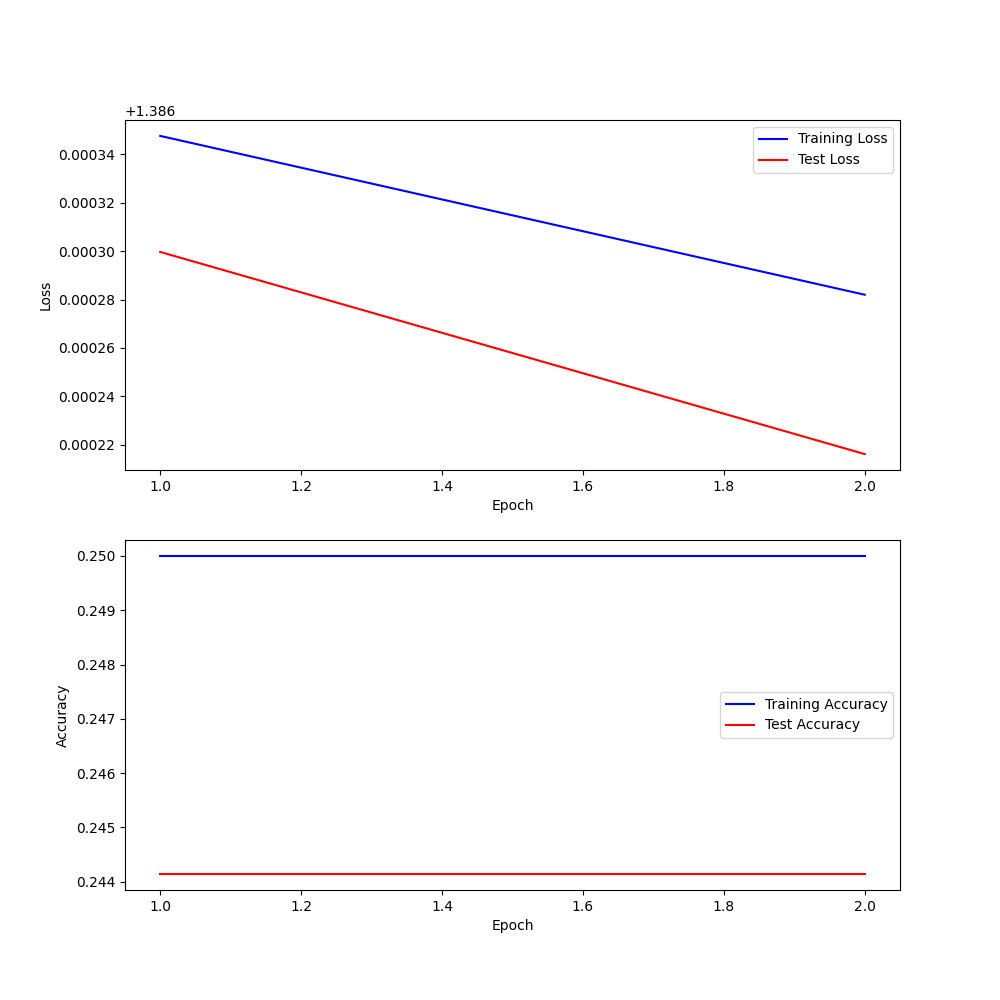
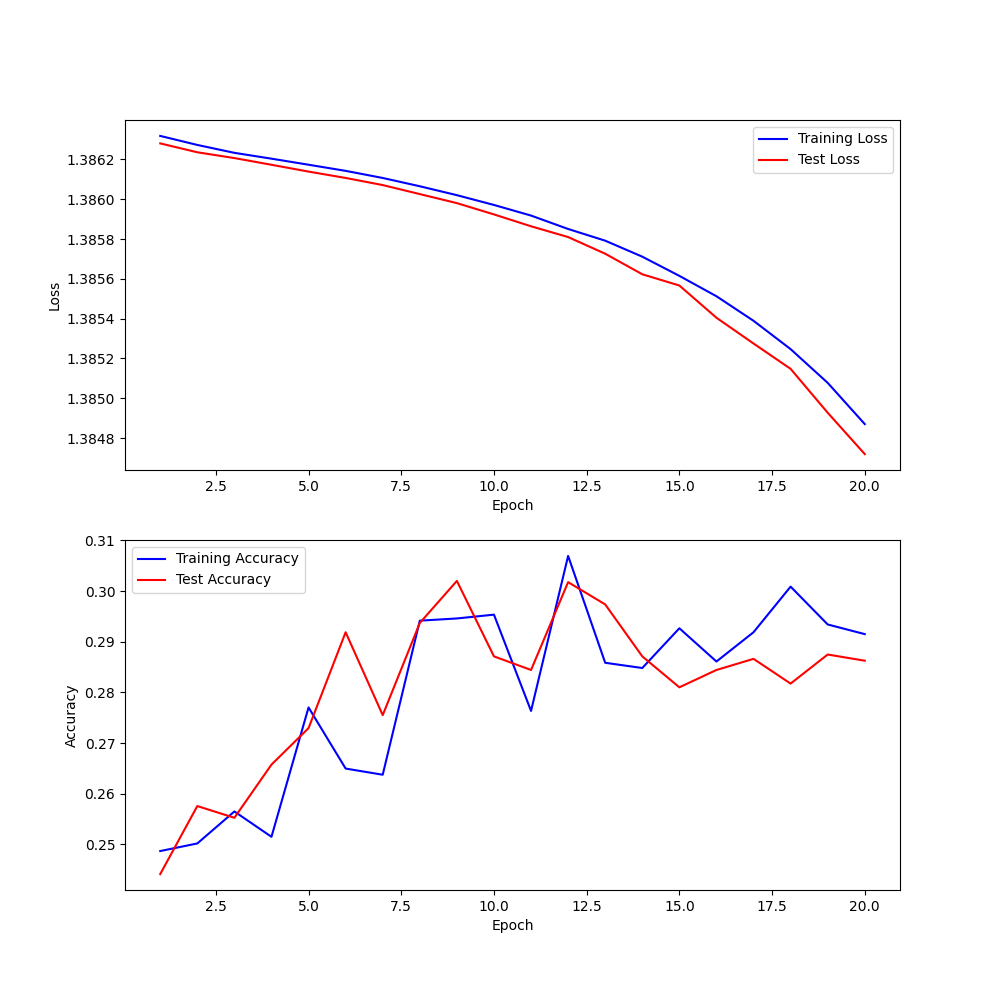
gm - detect face

diff --git a/AlexNet/AlexNetScratch.py b/AlexNet/AlexNetScratch.py
@@ -23,17 +23,22 @@ if not torch.backends.mps.is_available():
         print("MPS not available because the current MacOS version is not 12.3+ "
               "and/or you do not have an MPS-enabled device on this machine.")
             
-#TODO: double-check with paper about transforms
-transform = transforms.Compose([
+train_transform = transforms.Compose([
+    transforms.Resize(256),
+    transforms.RandomHorizontalFlip(p = .5),
+    transforms.FiveCrop(224),
+    transforms.Lambda(lambda crops: torch.stack([transforms.ToTensor()(crop) for crop in crops])),
+])
+
+test_transform = transforms.Compose([
     transforms.Resize(256),
     transforms.CenterCrop(224),
     transforms.ToTensor(),
 ])
 
 # Load dataset and perform transformations
-train_dataset = datasets.ImageFolder('./dataset/train', transform = transform)
-test_dataset = datasets.ImageFolder('./dataset/test', transform = transform)
-
+train_dataset = datasets.ImageFolder('../dataset/train', transform = train_transform)
+test_dataset = datasets.ImageFolder('../dataset/test', transform = test_transform)
 
 # Dataloader iteratble returns batches of images and corresponding labels
 batchSize = 256
@@ -42,8 +47,6 @@ testloader = torch.utils.data.DataLoader(test_dataset, batch_size=batchSize, shu
 
 train_dataset_size = len(trainloader)
 test_dataset_size = len(testloader)
-
-#TODO: Data augementation steps goes here
 
 mps_device = torch.device('mps')
 
@@ -63,7 +66,7 @@ optimizer = optim.SGD(AlexNet_model.parameters(), lr=0.001, momentum=0.9)
 # learning rate decreases step-wise by a factor of .1 ~every 10K iterations
 exp_lr_scheduler = lr_scheduler.StepLR(optimizer, step_size=3, gamma=0.1)
 
-nepochs = 2 #TODO: run for 20 epochs
+nepochs = 1 #TODO: run for 20 epochs
 
 epochs = list(range(1, nepochs+1))
 train_loss_trend, train_acc_trend, test_loss_trend, test_acc_trend = [], [], [], []
@@ -76,6 +79,9 @@ for epoch in range(nepochs):
     for i, data in enumerate(trainloader, 0):
         # load input and labels into gpu
         inputs, labels = data[0], data[1]
+        bs, ncrops, c, h, w = inputs.size()
+        inputs = inputs.view(-1, c, h, w) # fuse batch size and ncrops
+
         inputs = inputs.to(mps_device)
         labels = labels.to(mps_device)
 
@@ -84,11 +90,13 @@ for epoch in range(nepochs):
 
         # make predictions & calc accuracy
         outputs = AlexNet_model(inputs)
-        _, preds = torch.max(outputs, 1)
-        running_accuracy += float(torch.sum(preds == labels)) / batchSize # % accuracy for current batch
+        outputs_avg = outputs.view(bs, ncrops, -1).mean(1) # avg over crops
+
+        _, preds = torch.max(outputs_avg, 1)
+        running_accuracy += float(torch.sum(preds == labels)) / batchSize 
 
         # forward + backward + optimize
-        loss = criterion(outputs, labels)
+        loss = criterion(outputs_avg, labels)
         loss.backward()
         optimizer.step()
 
@@ -141,7 +149,7 @@ ax[1].plot(epochs,test_acc_trend,color='r',label='Test Accuracy')
 ax[1].set(xlabel='Epoch', ylabel = 'Accuracy')
 ax[1].legend()
 
-plt.savefig('../graphs/AlexNet_Scratch.png')
-torch.save(AlexNet_model, '../models/AlexNet_Scratch')
+plt.savefig('../graphs/AlexNet_Scratch_dataAugment.png')
+torch.save(AlexNet_model, '../models/AlexNet_Scratch_dataAugment')
 
 print('Accuracy Score = ', np.max(test_acc_trend))

diff --git a/AlexNet/AlexNetTL.py b/AlexNet/AlexNetTL.py
@@ -23,17 +23,22 @@ if not torch.backends.mps.is_available():
         print("MPS not available because the current MacOS version is not 12.3+ "
               "and/or you do not have an MPS-enabled device on this machine.")
             
-#TODO: double-check with paper about transforms
-transform = transforms.Compose([
+train_transform = transforms.Compose([
+    transforms.Resize(256),
+    transforms.RandomHorizontalFlip(p = .5),
+    transforms.FiveCrop(224),
+    transforms.Lambda(lambda crops: torch.stack([transforms.ToTensor()(crop) for crop in crops])),
+])
+
+test_transform = transforms.Compose([
     transforms.Resize(256),
     transforms.CenterCrop(224),
     transforms.ToTensor(),
 ])
 
 # Load dataset and perform transformations
-train_dataset = datasets.ImageFolder('./dataset/train', transform = transform)
-test_dataset = datasets.ImageFolder('./dataset/test', transform = transform)
-
+train_dataset = datasets.ImageFolder('../dataset/train', transform = train_transform)
+test_dataset = datasets.ImageFolder('../dataset/test', transform = test_transform)
 
 # Dataloader iteratble returns batches of images and corresponding labels
 batchSize = 256
@@ -42,8 +47,6 @@ testloader = torch.utils.data.DataLoader(test_dataset, batch_size=batchSize, shu
 
 train_dataset_size = len(trainloader)
 test_dataset_size = len(testloader)
-
-#TODO: Data augementation steps goes here
 
 mps_device = torch.device('mps')
 
@@ -63,17 +66,12 @@ optimizer = optim.SGD(AlexNet_model.parameters(), lr=0.001, momentum=0.9)
 # learning rate decreases step-wise by a factor of .1 ~every 10K iterations
 exp_lr_scheduler = lr_scheduler.StepLR(optimizer, step_size=3, gamma=0.1)
 
-nepochs = 2 #TODO: run for 20 epochs
+nepochs = 20 #TODO: run for 20 epochs
 
 epochs = list(range(1, nepochs+1))
 train_loss_trend, train_acc_trend, test_loss_trend, test_acc_trend = [], [], [], []
 
-for epoch in range(nepochs): 
-    
-    running_loss = 0.0
-    running_accuracy = 0.0
-
-    for i, data in enumerate(trainloader, 0):
+for i, data in enumerate(trainloader, 0):
         # load input and labels into gpu
         inputs, labels = data[0], data[1]
         inputs = inputs.to(mps_device)
@@ -142,7 +140,7 @@ ax[1].plot(epochs,test_acc_trend,color='r',label='Test Accuracy')
 ax[1].set(xlabel='Epoch', ylabel = 'Accuracy')
 ax[1].legend()
 
-plt.savefig('../graphs/AlexNet_TL.png')
-torch.save(AlexNet_model, '../models/AlexNet_TL')
+plt.savefig('../graphs/AlexNet_TL_dataAugment.png')
+torch.save(AlexNet_model, '../models/AlexNet_TL_dataAugment')
 
 print('Accuracy Score = ', np.max(test_acc_trend))

diff --git a/Interface/Start.py b/Interface/Start.py
@@ -1,0 +1,64 @@
+'''
+Start.py
+Open webcam to input into facial emotions classifier
+Author: https://github.com/arunponnusamy/cvlib/blob/master/examples/face_detection_webcam.py
+'''
+import cvlib as cv
+import cv2
+import torch
+
+# open webcam
+webcam = cv2.VideoCapture(0)
+model = torch.load('../models/AlexNet_Scratch_dataAugment')
+model.eval()
+emotions = {0: 'angry', 1: 'happy', 2: 'neutral', 3: 'sad'}
+
+if not webcam.isOpened():
+    print("Could not open webcam")
+    exit()
+    
+
+# loop through frames
+while webcam.isOpened():
+
+    # read frame from webcam 
+    status, frame = webcam.read()
+
+    if not status:
+        print("Could not read frame")
+        exit()
+
+    # apply face detection
+    face, confidence = cv.detect_face(frame)
+
+    # crop frame using face and convert to tensor
+    outputs = model(face)
+    _, preds = torch.max(outputs, 1)
+
+    # loop through detected faces
+    for idx, f in enumerate(face):
+        
+        (startX, startY) = f[0], f[1]
+        (endX, endY) = f[2], f[3]
+
+        # draw rectangle over face
+        cv2.rectangle(frame, (startX,startY), (endX,endY), (0,255,0), 2)
+
+        text = "{:.2f}%".format(confidence[idx] * 100)
+
+        Y = startY - 10 if startY - 10 > 10 else startY + 10
+
+        # write confidence percentage on top of face rectangle
+        cv2.putText(frame, text, (startX,Y), cv2.FONT_HERSHEY_SIMPLEX, 0.7,
+                    (0,255,0), 2)
+
+    # display output
+    cv2.imshow("Real-time face detection", frame)
+
+    # press "Q" to stop
+    if cv2.waitKey(1) & 0xFF == ord('q'):
+        break
+    
+# release resources
+webcam.release()
+cv2.destroyAllWindows()        

diff --git a/Interface/LoadModels.py b/Interface/LoadModels.py
@@ -5,16 +5,7 @@ Author: Gautam Mundewadi
 """
 import torch
 
-# Pytorch AlexNet Transfer Learn
-AlexNet_TL_model = torch.load('./models/AlexNet_TL')
-print("AlexNet Transfer Learned state_dict:")
-for param_tensor in AlexNet_TL_model.state_dict():
-    print(param_tensor, "\t", AlexNet_TL_model.state_dict()[param_tensor].size())
-
-
-# TensorFlow AlextNet Train from Scratch
-AlexNet_TL_model = torch.load('./models/AlexNet_Scratch')
-print("AlexNet Scratch state_dict:")
+AlexNet_TL_model = torch.load('../models/AlexNet_Scratch_dataAugment')
 for param_tensor in AlexNet_TL_model.state_dict():
     print(param_tensor, "\t", AlexNet_TL_model.state_dict()[param_tensor].size())
 
